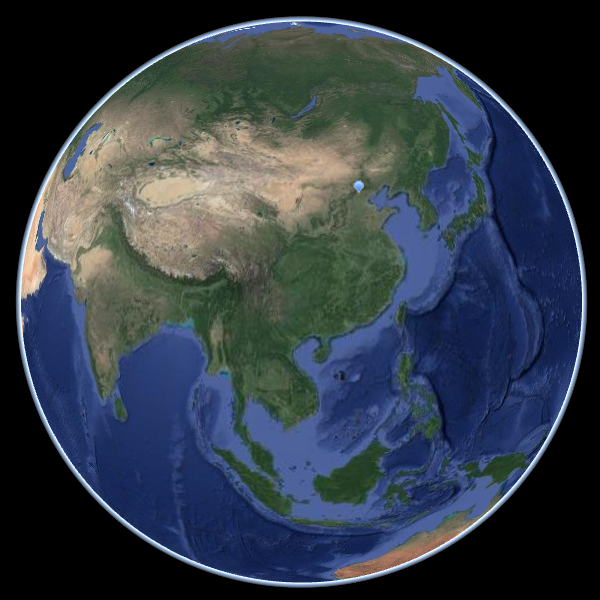
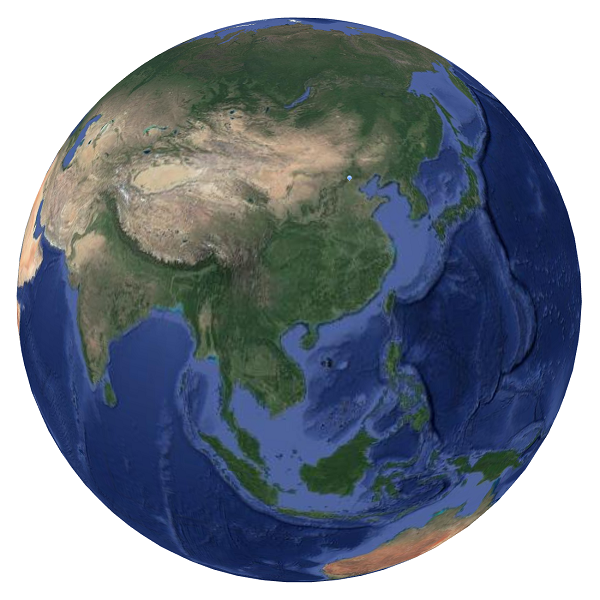
update webglobe.png

diff --git a/src/world/Renderer.ts b/src/world/Renderer.ts
@@ -42,7 +42,7 @@ class Renderer {
     }
 
     Kernel.gl.clear(Kernel.gl.COLOR_BUFFER_BIT | Kernel.gl.DEPTH_BUFFER_BIT);
-    gl.clearColor(255, 255, 255, 1.0);
+    gl.clearColor(0, 0, 0, 1);
 
     gl.enable(gl.DEPTH_TEST);
     gl.depthFunc(gl.LEQUAL);
